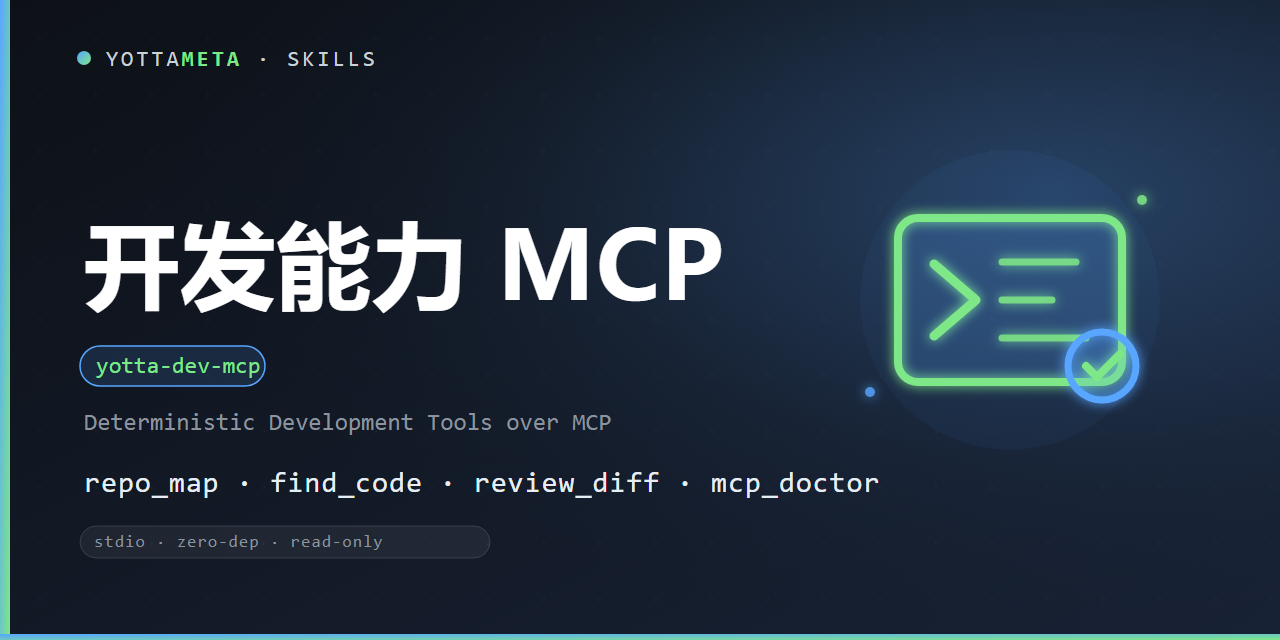
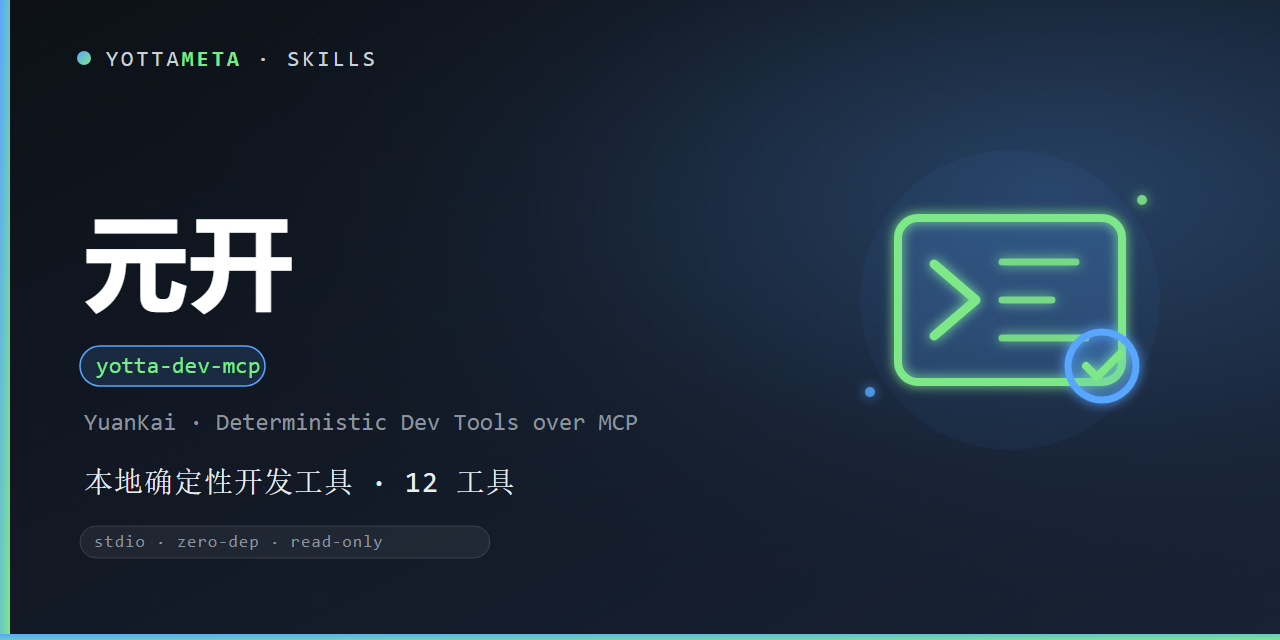
feat: release YuanKai brand rename 0.1.1

diff --git a/scripts/dev_engine.py b/scripts/dev_engine.py
@@ -20,7 +20,7 @@ from pathlib import Path
 
 from dev_rules import REVIEW_RULES
 
-VERSION = "0.1.0"
+VERSION = "0.1.1"
 
 IGNORE_DIRS = {
     ".git", ".hg", ".svn", "node_modules", "__pycache__", ".venv", "venv",

diff --git a/SKILL.md b/SKILL.md
@@ -1,13 +1,13 @@
 ---
 name: yotta-dev-mcp
-description: 开发能力 MCP（yotta-dev-mcp）—— 把确定性、只读默认、本地的开发工具暴露为 stdio MCP server：repo_map / find_code / compress_output / review_code / review_diff / mcp_doctor / scan_secrets / scan_dependencies / check_publish_readiness / run_checks / scaffold_skill / workflow_state。触发：让 AI 在陌生项目里先做结构盘点、定位代码、评审改动、扫描密钥/依赖、检查发布就绪、运行白名单检查、生成脚手架或读取 .workflow 状态时；或用户说 开发能力 MCP / yotta-dev-mcp / 代码库地图 / 代码评审 MCP 等。边界：Python 3.8+ 标准库、离线默认；除 run_checks（显式 allow_execute）与 scaffold_skill / workflow_state 的显式 apply 外均为只读；不上传源码、不自动修改、不提交、不联网查询包是否存在。
-version: 0.1.0
+description: 元开（yotta-dev-mcp）—— 本地、确定性的开发工具 MCP，把只读默认的开发能力暴露为 stdio MCP server：repo_map / find_code / compress_output / review_code / review_diff / mcp_doctor / scan_secrets / scan_dependencies / check_publish_readiness / run_checks / scaffold_skill / workflow_state。触发：让 AI 在陌生项目里先做结构盘点、定位代码、评审改动、扫描密钥/依赖、检查发布就绪、运行白名单检查、生成脚手架或读取 .workflow 状态时；或用户说 元开 / 开发能力 MCP / yotta-dev-mcp / 代码库地图 / 代码评审 MCP 等。边界：Python 3.8+ 标准库、离线默认；除 run_checks（显式 allow_execute）与 scaffold_skill / workflow_state 的显式 apply 外均为只读；不上传源码、不自动修改、不提交、不联网查询包是否存在。
+version: 0.1.1
 license: MIT
 ---
 
-# 开发能力 MCP
+# 元开（yotta-dev-mcp）
 
-把一组本地、确定性的开发工具做成一个 stdio MCP server。任何支持 MCP 的客户端接上后，
+元开（YuanKai）把一组本地、确定性的开发工具做成一个 stdio MCP server。任何支持 MCP 的客户端接上后，
 都能在真实开发任务里调用这些工具；输出带文件、行号、规则和证据，便于直接进入修复清单。
 
 ## 何时使用
@@ -64,4 +64,4 @@ python scripts/yotta_dev_mcp.py
 
 ## 当前版本
 
-- v0.1.0：协议内核 + 上述 12 个工具。
+- v0.1.1：品牌显示名统一为「元开」；功能与 12 个工具不变。

diff --git a/README.zh-CN.md b/README.zh-CN.md
@@ -1,5 +1,5 @@
-<p align="center"><img src="assets/banner.png" alt="开发能力 MCP banner" width="100%"></p>
-<h1 align="center">开发能力 MCP（yotta-dev-mcp）</h1>
+<p align="center"><img src="assets/banner.png" alt="元开 banner" width="100%"></p>
+<h1 align="center">元开（yotta-dev-mcp）</h1>
 <p align="center"><b>Language</b>: <a href="README.md">English</a> · 中文</p>
 
 把本地、确定性的开发工具做成 stdio MCP server，任何支持 MCP 的客户端接上即可使用。

diff --git a/README.md b/README.md
@@ -1,5 +1,5 @@
-<p align="center"><img src="assets/banner.png" alt="YottaDev MCP banner" width="100%"></p>
-<h1 align="center">YottaDev MCP (yotta-dev-mcp)</h1>
+<p align="center"><img src="assets/banner.png" alt="YuanKai banner" width="100%"></p>
+<h1 align="center">YuanKai (yotta-dev-mcp)</h1>
 <p align="center"><b>Language</b>: English · <a href="README.zh-CN.md">中文</a></p>
 
 Deterministic local development tools exposed over a stdio MCP server.

diff --git a/CHANGELOG.md b/CHANGELOG.md
@@ -1,5 +1,10 @@
 # Changelog
 
+## v0.1.1 (2026-09-25)
+
+- 品牌改名：对外显示名统一为「元开（yotta-dev-mcp）」，不再把功能描述「开发能力 MCP」当产品名。
+- 功能与 12 个工具保持不变；协议、参数、输出与 0.1.0 兼容。
+
 ## v0.1.0 (2026-09-25)
 
 - 首个本地候选：MCP 双时代协议内核（2026-07-28 modern + 2025-11-25 legacy）。
